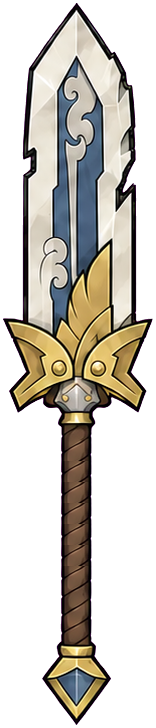
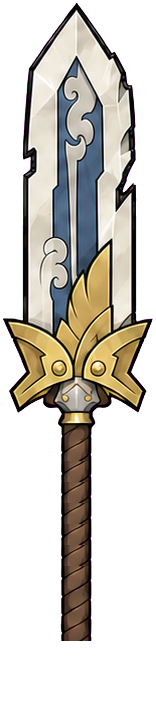
21 스카이아크 알론소: 칼 메는 손을 원화에서 오린 그림으로 (시트 메는 손은 쥔 각도·토시가 원화와 달랐음), 칼 폼멜은 원화 그림이 그림
Claude-Session: https://claude.ai/code/session_011WxNHak8EsK79yqEoeePC7

Changed region(s): [[0.2821, 0.8764, 0.7179, 0.9973]]

diff --git a/assets/rig/alonso-sky/rig.def.js b/assets/rig/alonso-sky/rig.def.js
@@ -1,3 +1,3 @@
 // 자동 생성: rig.json을 JS로 감싼 것. 원본은 같은 폴더의 rig.json (source/build_sky.py)
 window.MR_RIG_DEFS=window.MR_RIG_DEFS||{};
-window.MR_RIG_DEFS['alonso-sky']={"name": "alonso-sky", "version": "5d8173d5", "units": "rig px (원화 512 ×2)", "refOrigin": [720.0, 954.0], "refScale": 1.0, "refLift": 0, "parts": {"skirtB": {"src": "parts/skirtB.png", "pivot": [97.2, 20.9], "scale": 1.45}, "torso": {"src": "parts/torso.png", "pivot": [70.7, 173.8], "scale": 1.45}, "skirt": {"src": "parts/skirt.png", "pivot": [83.2, 23.6], "scale": 1.45}, "head": {"src": "parts/head.png", "pivot": [179.4, 214.9], "scale": 1.45}, "braid": {"src": "parts/braid.png", "pivot": [62.0, 12.0], "scale": 0.6325}, "armF": {"src": "parts/armF.png", "pivot": [48.0, 20.0], "scale": 1.017, "elbow": [48, 145]}, "foreF": {"src": "parts/foreF.png", "pivot": [35.0, 60.0], "scale": 0.8329}, "fistF": {"src": "parts/fistF.png", "pivot": [206.0, 77.0], "scale": 1.24}, "weapon": {"src": "parts/weapon.png", "pivot": [67.7, 649.8], "scale": 1.4937, "tip": [78, 2], "guard": [78, 375], "pommel": [76, 726]}, "armU": {"src": "parts/armU.png", "pivot": [50.0, 22.0], "scale": 0.7332, "elbow": [50, 155]}, "armL": {"src": "parts/armL.png", "pivot": [30.0, 22.0], "scale": 0.6984, "fist": [80, 160]}, "fistN": {"src": "parts/fistN.png", "pivot": [68.0, 128.0], "scale": 1.24}, "pauldron": {"src": "parts/pauldron.png", "pivot": [71.6, 60.9], "scale": 0.95}, "face_effort": {"src": "parts/face_effort.png", "pivot": [179.4, 214.9], "scale": 1.45}, "face_shout": {"src": "parts/face_shout.png", "pivot": [179.4, 214.9], "scale": 1.45}, "face_focus": {"src": "parts/face_focus.png", "pivot": [179.4, 214.9], "scale": 1.45}, "face_happy": {"src": "parts/face_happy.png", "pivot": [179.4, 214.9], "scale": 1.45}, "face_surprised": {"src": "parts/face_surprised.png", "pivot": [179.4, 214.9], "scale": 1.45}, "face_grimace": {"src": "parts/face_grimace.png", "pivot": [179.4, 214.9], "scale": 1.45}, "face_half": {"src": "parts/face_half.png", "pivot": [179.4, 214.9], "scale": 1.45}, "face_closed": {"src": "parts/face_closed.png", "pivot": [179.4, 214.9], "scale": 1.45}, "face_neutral": {"src": "parts/face_neutral.png", "pivot": [179.4, 214.9], "scale": 1.45}, "thighN": {"src": "parts/thighN.png", "pivot": [60, 25], "scale": 1}, "thighF": {"src": "parts/thighF.png", "pivot": [60, 25], "scale": 1}, "shinN": {"src": "parts/shinN.png", "pivot": [50, 22], "scale": 1}, "shinF": {"src": "parts/shinF.png", "pivot": [50, 22], "scale": 1}, "boot": {"src": "parts/boot.png", "pivot": [52, 22], "scale": 0.78}, "knee": {"src": "parts/knee.png", "pivot": [57, 50], "scale": 0.8}, "tailA": {"src": "parts/tailA.png", "pivot": [210.0, 81.0], "scale": 1.5, "mesh": {"cols": 8, "rows": 2}}, "tailB": {"src": "parts/tailB.png", "pivot": [196.0, 58.5], "scale": 1.5, "mesh": {"cols": 8, "rows": 2}}}, "bones": [{"name": "root", "parent": null, "pos": [0, 0]}, {"name": "hip", "parent": "root", "pos": [4.0, -234.0]}, {"name": "skirtB", "parent": "hip", "pos": [-4.0, -56.0], "part": "skirtB"}, {"name": "torso", "parent": "hip", "pos": [0.0, 0.0], "rot": 0.0349, "part": "torso"}, {"name": "skirt", "parent": "hip", "pos": [0.0, -56.0], "part": "skirt"}, {"name": "head", "parent": "torso", "pos": [18.0, -228.8], "rot": 0.0349, "part": "head"}, {"name": "braid", "parent": "head", "pos": [-180.0, -79.6], "rot": 0.2519, "part": "braid"}, {"name": "armF", "parent": "torso", "pos": [107.0, -143.8], "rot": -0.257, "part": "armF"}, {"name": "foreF", "parent": "armF", "pos": [0.0, 127.1], "rot": -1.285, "part": "foreF"}, {"name": "fistF", "parent": "foreF", "pos": [180.9, 8.5], "rot": 0.965, "part": "fistF"}, {"name": "weapon", "parent": "fistF", "pos": [0.0, 0.0], "rot": -0.5818, "part": "weapon"}, {"name": "armU", "parent": "torso", "pos": [-142.8, -191.1], "rot": 0.4104, "part": "armU"}, {"name": "armL", "parent": "armU", "pos": [0.0, 97.5], "rot": 0.0264, "part": "armL"}, {"name": "fistN", "parent": "armL", "pos": [26.5, 74.0], "part": "fistN"}, {"name": "pauldron", "parent": "torso", "pos": [-142.8, -191.1], "rot": 0.0698, "part": "pauldron"}, {"name": "cape", "parent": "torso", "pos": [0.0, 0.0]}, {"name": "scarf", "parent": "torso", "pos": [0.0, 0.0]}, {"name": "pouch", "parent": "torso", "pos": [0.0, 0.0]}, {"name": "pauldronF", "parent": "torso", "pos": [0.0, 0.0]}, {"name": "tailA", "parent": "torso", "pos": [-106.8, -192.4], "rot": -0.05, "part": "tailA"}, {"name": "tailB", "parent": "torso", "pos": [-104.8, -136.4], "rot": -0.45, "part": "tailB"}], "legs": {"hip": [0, 10.0], "thigh": 88.0, "shin": 92.0, "thighImg": {"part": "thighN", "a": [60, 25], "b": [60, 185], "w": 1.85}, "shinImg": {"part": "shinN", "a": [50, 22], "b": [55, 195], "w": 1.75}, "thighFirst": true, "kneeImg": {"part": "knee", "mix": 0.5, "dx": 6, "dy": 0, "rot": 0}, "boot": {"part": "boot", "sole": [[-40, 82], [-35, 86], [120, 86], [130, 76]], "ankleRange": [-0.45, 0.75]}, "near": {"x": -110.0, "hipX": -34.0, "runX": -10, "shade": 0, "thighImg": {"part": "thighN", "a": [60, 25], "b": [60, 185], "w": 1.85}, "shinImg": {"part": "shinN", "a": [50, 22], "b": [55, 195], "w": 1.75}}, "far": {"x": 100.0, "hipX": 30.0, "runX": 10, "shade": 0.25, "thighImg": {"part": "thighF", "a": [60, 25], "b": [60, 185], "w": 1.85}, "shinImg": {"part": "shinF", "a": [50, 22], "b": [55, 195], "w": 1.75}}}, "draw": ["tailB", "tailA", "foreF", "skirtB", "legFar", "legNear", "torso", "skirt", "weapon", "braid", "head", "armU", "armL", "fistN", "pauldron", "fistF"], "hidden": [], "faces": {"effort": "face_effort", "shout": "face_shout", "focus": "face_focus", "happy": "face_happy", "surprised": "face_surprised", "grimace": "face_grimace"}, "blinkFaces": {"half": "face_half", "closed": "face_closed"}, "metrics": {"bodyHeight": 778, "note": "rig units; 머리카락 중간(y88)~발바닥(477) ×2, 무기 제외"}, "armPhase": 0.5, "gait": {"heelKick": 0.3, "kneeLift": 0.5, "strideBase": 45, "strideK": 0.12, "swingReach": -0.05, "swingAng": 0.15, "landAng": 0}, "carrySwing": 0.25, "wristRange": 0.2, "ui": {"attack": "smash", "touch": "hop"}, "gameRef": {"refOrigin": [360.0, 477.0], "refScale": 2.0, "refLift": 0, "note": "게임 그림 char_0021.png(512) = 원화"}, "note": "21 스카이아크 알론소 (2026-10-17 밤, v1 대기 조립). 칼 = 원화 자리(칼날 머리 뒤·손잡이 얼굴 앞), 메는 팔은 몸 뒤·주먹만 얼굴 앞.", "streamers": [{"bone": "tailA", "part": "tailA", "len": 321.0, "amp": 10, "freq": 7.2, "phase": 0, "droop": 0.25, "sag": 18, "wind": 0.7, "lag": 0.35}, {"bone": "tailB", "part": "tailB", "len": 300.0, "amp": 13, "freq": 6.4, "phase": 1.9, "droop": 0.35, "sag": 24, "wind": 0.65, "lag": 0.45}]};
+window.MR_RIG_DEFS['alonso-sky']={"name": "alonso-sky", "version": "3703ed58", "units": "rig px (원화 512 ×2)", "refOrigin": [720.0, 954.0], "refScale": 1.0, "refLift": 0, "parts": {"skirtB": {"src": "parts/skirtB.png", "pivot": [97.2, 20.9], "scale": 1.45}, "torso": {"src": "parts/torso.png", "pivot": [70.7, 173.8], "scale": 1.45}, "skirt": {"src": "parts/skirt.png", "pivot": [83.2, 23.6], "scale": 1.45}, "head": {"src": "parts/head.png", "pivot": [179.4, 214.9], "scale": 1.45}, "braid": {"src": "parts/braid.png", "pivot": [62.0, 12.0], "scale": 0.6325}, "armF": {"src": "parts/armF.png", "pivot": [48.0, 20.0], "scale": 1.017, "elbow": [48, 145]}, "foreF": {"src": "parts/foreF.png", "pivot": [35.0, 60.0], "scale": 0.8329}, "fistF": {"src": "parts/fistF.png", "pivot": [37.0, 37.0], "scale": 2.0}, "weapon": {"src": "parts/weapon.png", "pivot": [67.7, 649.8], "scale": 1.4937, "tip": [78, 2], "guard": [78, 375], "pommel": [76, 726]}, "armU": {"src": "parts/armU.png", "pivot": [50.0, 22.0], "scale": 0.7332, "elbow": [50, 155]}, "armL": {"src": "parts/armL.png", "pivot": [30.0, 22.0], "scale": 0.6984, "fist": [80, 160]}, "fistN": {"src": "parts/fistN.png", "pivot": [68.0, 128.0], "scale": 1.24}, "pauldron": {"src": "parts/pauldron.png", "pivot": [71.6, 60.9], "scale": 0.95}, "face_effort": {"src": "parts/face_effort.png", "pivot": [179.4, 214.9], "scale": 1.45}, "face_shout": {"src": "parts/face_shout.png", "pivot": [179.4, 214.9], "scale": 1.45}, "face_focus": {"src": "parts/face_focus.png", "pivot": [179.4, 214.9], "scale": 1.45}, "face_happy": {"src": "parts/face_happy.png", "pivot": [179.4, 214.9], "scale": 1.45}, "face_surprised": {"src": "parts/face_surprised.png", "pivot": [179.4, 214.9], "scale": 1.45}, "face_grimace": {"src": "parts/face_grimace.png", "pivot": [179.4, 214.9], "scale": 1.45}, "face_half": {"src": "parts/face_half.png", "pivot": [179.4, 214.9], "scale": 1.45}, "face_closed": {"src": "parts/face_closed.png", "pivot": [179.4, 214.9], "scale": 1.45}, "face_neutral": {"src": "parts/face_neutral.png", "pivot": [179.4, 214.9], "scale": 1.45}, "thighN": {"src": "parts/thighN.png", "pivot": [60, 25], "scale": 1}, "thighF": {"src": "parts/thighF.png", "pivot": [60, 25], "scale": 1}, "shinN": {"src": "parts/shinN.png", "pivot": [50, 22], "scale": 1}, "shinF": {"src": "parts/shinF.png", "pivot": [50, 22], "scale": 1}, "boot": {"src": "parts/boot.png", "pivot": [52, 22], "scale": 0.78}, "knee": {"src": "parts/knee.png", "pivot": [57, 50], "scale": 0.8}, "tailA": {"src": "parts/tailA.png", "pivot": [210.0, 81.0], "scale": 1.5, "mesh": {"cols": 8, "rows": 2}}, "tailB": {"src": "parts/tailB.png", "pivot": [196.0, 58.5], "scale": 1.5, "mesh": {"cols": 8, "rows": 2}}}, "bones": [{"name": "root", "parent": null, "pos": [0, 0]}, {"name": "hip", "parent": "root", "pos": [4.0, -234.0]}, {"name": "skirtB", "parent": "hip", "pos": [-4.0, -56.0], "part": "skirtB"}, {"name": "torso", "parent": "hip", "pos": [0.0, 0.0], "rot": 0.0349, "part": "torso"}, {"name": "skirt", "parent": "hip", "pos": [0.0, -56.0], "part": "skirt"}, {"name": "head", "parent": "torso", "pos": [18.0, -228.8], "rot": 0.0349, "part": "head"}, {"name": "braid", "parent": "head", "pos": [-180.0, -79.6], "rot": 0.2519, "part": "braid"}, {"name": "armF", "parent": "torso", "pos": [107.0, -143.8], "rot": -0.257, "part": "armF"}, {"name": "foreF", "parent": "armF", "pos": [0.0, 127.1], "rot": -1.285, "part": "foreF"}, {"name": "fistF", "parent": "foreF", "pos": [180.9, 8.5], "rot": 1.5071, "part": "fistF"}, {"name": "weapon", "parent": "fistF", "pos": [0.0, 0.0], "rot": -1.124, "part": "weapon"}, {"name": "armU", "parent": "torso", "pos": [-142.8, -191.1], "rot": 0.4104, "part": "armU"}, {"name": "armL", "parent": "armU", "pos": [0.0, 97.5], "rot": 0.0264, "part": "armL"}, {"name": "fistN", "parent": "armL", "pos": [26.5, 74.0], "part": "fistN"}, {"name": "pauldron", "parent": "torso", "pos": [-142.8, -191.1], "rot": 0.0698, "part": "pauldron"}, {"name": "cape", "parent": "torso", "pos": [0.0, 0.0]}, {"name": "scarf", "parent": "torso", "pos": [0.0, 0.0]}, {"name": "pouch", "parent": "torso", "pos": [0.0, 0.0]}, {"name": "pauldronF", "parent": "torso", "pos": [0.0, 0.0]}, {"name": "tailA", "parent": "torso", "pos": [-106.8, -192.4], "rot": -0.05, "part": "tailA"}, {"name": "tailB", "parent": "torso", "pos": [-104.8, -136.4], "rot": -0.45, "part": "tailB"}], "legs": {"hip": [0, 10.0], "thigh": 88.0, "shin": 92.0, "thighImg": {"part": "thighN", "a": [60, 25], "b": [60, 185], "w": 1.85}, "shinImg": {"part": "shinN", "a": [50, 22], "b": [55, 195], "w": 1.75}, "thighFirst": true, "kneeImg": {"part": "knee", "mix": 0.5, "dx": 6, "dy": 0, "rot": 0}, "boot": {"part": "boot", "sole": [[-40, 82], [-35, 86], [120, 86], [130, 76]], "ankleRange": [-0.45, 0.75]}, "near": {"x": -110.0, "hipX": -34.0, "runX": -10, "shade": 0, "thighImg": {"part": "thighN", "a": [60, 25], "b": [60, 185], "w": 1.85}, "shinImg": {"part": "shinN", "a": [50, 22], "b": [55, 195], "w": 1.75}}, "far": {"x": 100.0, "hipX": 30.0, "runX": 10, "shade": 0.25, "thighImg": {"part": "thighF", "a": [60, 25], "b": [60, 185], "w": 1.85}, "shinImg": {"part": "shinF", "a": [50, 22], "b": [55, 195], "w": 1.75}}}, "draw": ["tailB", "tailA", "skirtB", "legFar", "legNear", "torso", "skirt", "weapon", "braid", "head", "armU", "armL", "fistN", "pauldron", "fistF"], "hidden": [], "faces": {"effort": "face_effort", "shout": "face_shout", "focus": "face_focus", "happy": "face_happy", "surprised": "face_surprised", "grimace": "face_grimace"}, "blinkFaces": {"half": "face_half", "closed": "face_closed"}, "metrics": {"bodyHeight": 778, "note": "rig units; 머리카락 중간(y88)~발바닥(477) ×2, 무기 제외"}, "armPhase": 0.5, "gait": {"heelKick": 0.3, "kneeLift": 0.5, "strideBase": 45, "strideK": 0.12, "swingReach": -0.05, "swingAng": 0.15, "landAng": 0}, "carrySwing": 0.25, "wristRange": 0.2, "ui": {"attack": "smash", "touch": "hop"}, "gameRef": {"refOrigin": [360.0, 477.0], "refScale": 2.0, "refLift": 0, "note": "게임 그림 char_0021.png(512) = 원화"}, "note": "21 스카이아크 알론소 (2026-10-17 밤, v1 대기 조립). 칼 = 원화 자리(칼날 머리 뒤·손잡이 얼굴 앞), 메는 팔은 몸 뒤·주먹만 얼굴 앞.", "streamers": [{"bone": "tailA", "part": "tailA", "len": 321.0, "amp": 10, "freq": 7.2, "phase": 0, "droop": 0.25, "sag": 18, "wind": 0.7, "lag": 0.35}, {"bone": "tailB", "part": "tailB", "len": 300.0, "amp": 13, "freq": 6.4, "phase": 1.9, "droop": 0.35, "sag": 24, "wind": 0.65, "lag": 0.45}]};

diff --git a/assets/rig/alonso-sky/source/build_sky.py b/assets/rig/alonso-sky/source/build_sky.py
@@ -42,6 +42,14 @@ cn = np.array(img(os.path.join(W, 'carry_nohilt.png')))
 a = cn.copy(); a[:, 186:, 3] = 0; Image.fromarray(a).save(os.path.join(W, 'carryFore.png'))
 b = cn.copy(); b[:, :176, 3] = 0; Image.fromarray(b).save(os.path.join(W, 'carryFist.png'))
 
+# 메는 손 (DHL 23:38 "원화·시트와 다르게 나왔어요"): 시트 메는 손은 쥔 각도·토시 모양이 원화와 달라 → 원화에서 주먹·손잡이 끝·폼멜·토시를 그대로 오려 씀
+#  (서 있기·달리기 동안 메는 손은 칼과 함께 거의 고정이라 원화 한 장이 가장 정확. 공격 때는 쥔 손 조각으로 바꿈)
+from PIL import ImageDraw
+_ref = img(os.path.join(HERE, 'ref512.png')); _m = Image.new('L', _ref.size, 0)
+ImageDraw.Draw(_m).polygon([(423, 236), (446, 233), (463, 239), (477, 251), (491, 257), (505, 260), (512, 283), (501, 303), (486, 297), (474, 287), (459, 285), (457, 300), (449, 312), (435, 318), (420, 315), (413, 301), (417, 285), (423, 270)], fill=255)
+_c = _ref.copy(); _c.putalpha(Image.fromarray(np.minimum(np.array(_ref)[..., 3], np.array(_m)))); _c.crop((405, 225, 512, 325)).save(os.path.join(W, 'carryArt.png'))
+# 칼: 폼멜은 원화 조각(carryArt)이 그림 → 칼 그림은 손잡이 끝(폼멜 고리 위)에서 자름
+_sl = np.array(img(os.path.join(W, 'sword_long.png'))); _sl[515 + EXT:, :, 3] = 0; Image.fromarray(_sl).save(os.path.join(W, 'sword_long.png'))
 # ---------------- 원화 관절 (512 → ref1024) ----------------
 HIP = P2(362, 360); NECK = P2(375, 246)
 SH_N, EL_N, WR_N = P2(294, 262), P2(273, 306), P2(268, 345)       # 가까운(자유) 팔: 어깨(어깨갑 안)·팔꿈치·손목
@@ -68,7 +76,7 @@ parts['armF'] = dict(file=os.path.join(PC, 'armFdown.png'), M=sim2((48, 20), (48
 parts['foreF'] = dict(file=os.path.join(W, 'carryFore.png'), M=sim2((35, 60), (180, 70), EL_F, WR_F), at=EL_F)
 # 주먹: 손잡이 축(조각 57°)을 원화 칼 축에 맞춤
 ax_piece = math.degrees(math.atan2(130, 85)); ax_ref = math.degrees(math.atan2(UAX[1], UAX[0]))
-parts['fistF'] = dict(file=os.path.join(W, 'carryFist.png'), M=srt(1.24, ax_ref - ax_piece, (206, 77), GRIP), at=GRIP)
+parts['fistF'] = dict(file=os.path.join(W, 'carryArt.png'), M=srt(2.0, 0, (0, 0), P2(405, 225)), at=GRIP)   # 원화 오림 (512 → 리그 ×2)
 # 칼: 칼끝·폼멜 → 원화 칼끝·폼멜
 parts['weapon'] = dict(file=os.path.join(W, 'sword_long.png'), M=sim2(SW_TIP, SW_POM, SW_T, SW_P), at=GRIP)
 
@@ -122,7 +130,7 @@ legs = {'hip': [0, 2 * 5.0], 'thigh': TH, 'shin': SHN,
 # 걸음 (23:19 DHL '삐그덕'): 다리 뿌리를 발 자리의 1/4 안쪽(hipX −34/+30), 서 있는 발은 다리 길이 안(x −110/+100, 원화 −136/+120은 다리 180으로 안 닿아 발이 뜸)으로 — 원화 간격(±50)이면 먼 발이 엉덩이 뒤에 착지·땅에 1프레임만 닿아 절뚝임.
 #  다리(180)가 짧아 보폭·무릎 들기·뒤꿈치 차기를 줄임(무릎 튐 27°→15°/프레임, 굽힘 ≤138°)
 # 그리는 순서 (뒤 → 앞): 망토 꼬리 · 메는 팔(몸 뒤) · 뒷자락 · 다리 · 몸통 · 앞자락 · 칼(머리 뒤로 지나감) · 땋은 머리 · 머리 · 가까운 팔 · 어깨갑 · 메는 주먹(얼굴 앞)
-draw = ['tailB', 'tailA', 'foreF', 'skirtB', 'legFar', 'legNear', 'torso', 'skirt', 'weapon', 'braid', 'head', 'armU', 'armL', 'fistN', 'pauldron', 'fistF']
+draw = ['tailB', 'tailA', 'skirtB', 'legFar', 'legNear', 'torso', 'skirt', 'weapon', 'braid', 'head', 'armU', 'armL', 'fistN', 'pauldron', 'fistF']
 rig = {'name': 'alonso-sky', 'version': 1, 'units': 'rig px (원화 512 ×2)', 'refOrigin': [float(O[0]), float(O[1])], 'refScale': 1.0, 'refLift': 0,
        'parts': def_parts, 'bones': out_bones, 'legs': legs, 'draw': draw, 'hidden': [], 'faces': {n: f'face_{n}' for n in FN},
        'blinkFaces': {'half': 'face_half', 'closed': 'face_closed'},
